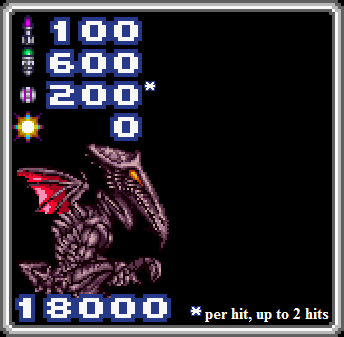
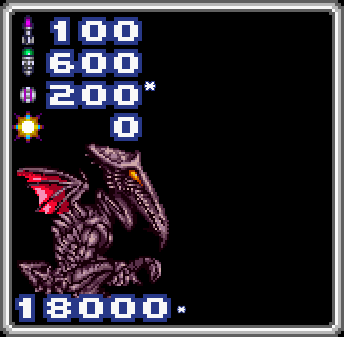
Switch to sans-serif font
The Ridley PB note moved from the image to a div so that it can change font as necessary.

Changed region(s): [[0.5233, 0.8902, 0.9593, 0.9496]]

diff --git a/style.css b/style.css
@@ -2,6 +2,7 @@ body {
   margin: 0;
   padding: 0;
   background-color: black;
+  font-family: Arial, Helvetica, sans-serif;
   cursor: default;
 }
 
@@ -141,8 +142,15 @@ body {
   position: absolute;
   top: 15;
   right: 15;
-  font-size: 20px;
+  font-size: 18px !important;
   text-align: center;
+}
+#ridley-note {
+  width: 140px;
+  position: absolute;
+  bottom: 15px;
+  right: 15px;
+  font-size: 16px !important;
 }
 
 #charge { background-image: url(images/items/charge.png); }

diff --git a/tracker.html b/tracker.html
@@ -117,6 +117,7 @@
           <div class="cell"><div class="digit-0"></div></div>
         </div>
         <div id="ridley-strategy"></div>
+        <div id="ridley-note">per hit, up to 2 hits</div>
       </div>
 
       <div class="panel mbrain"></div>
